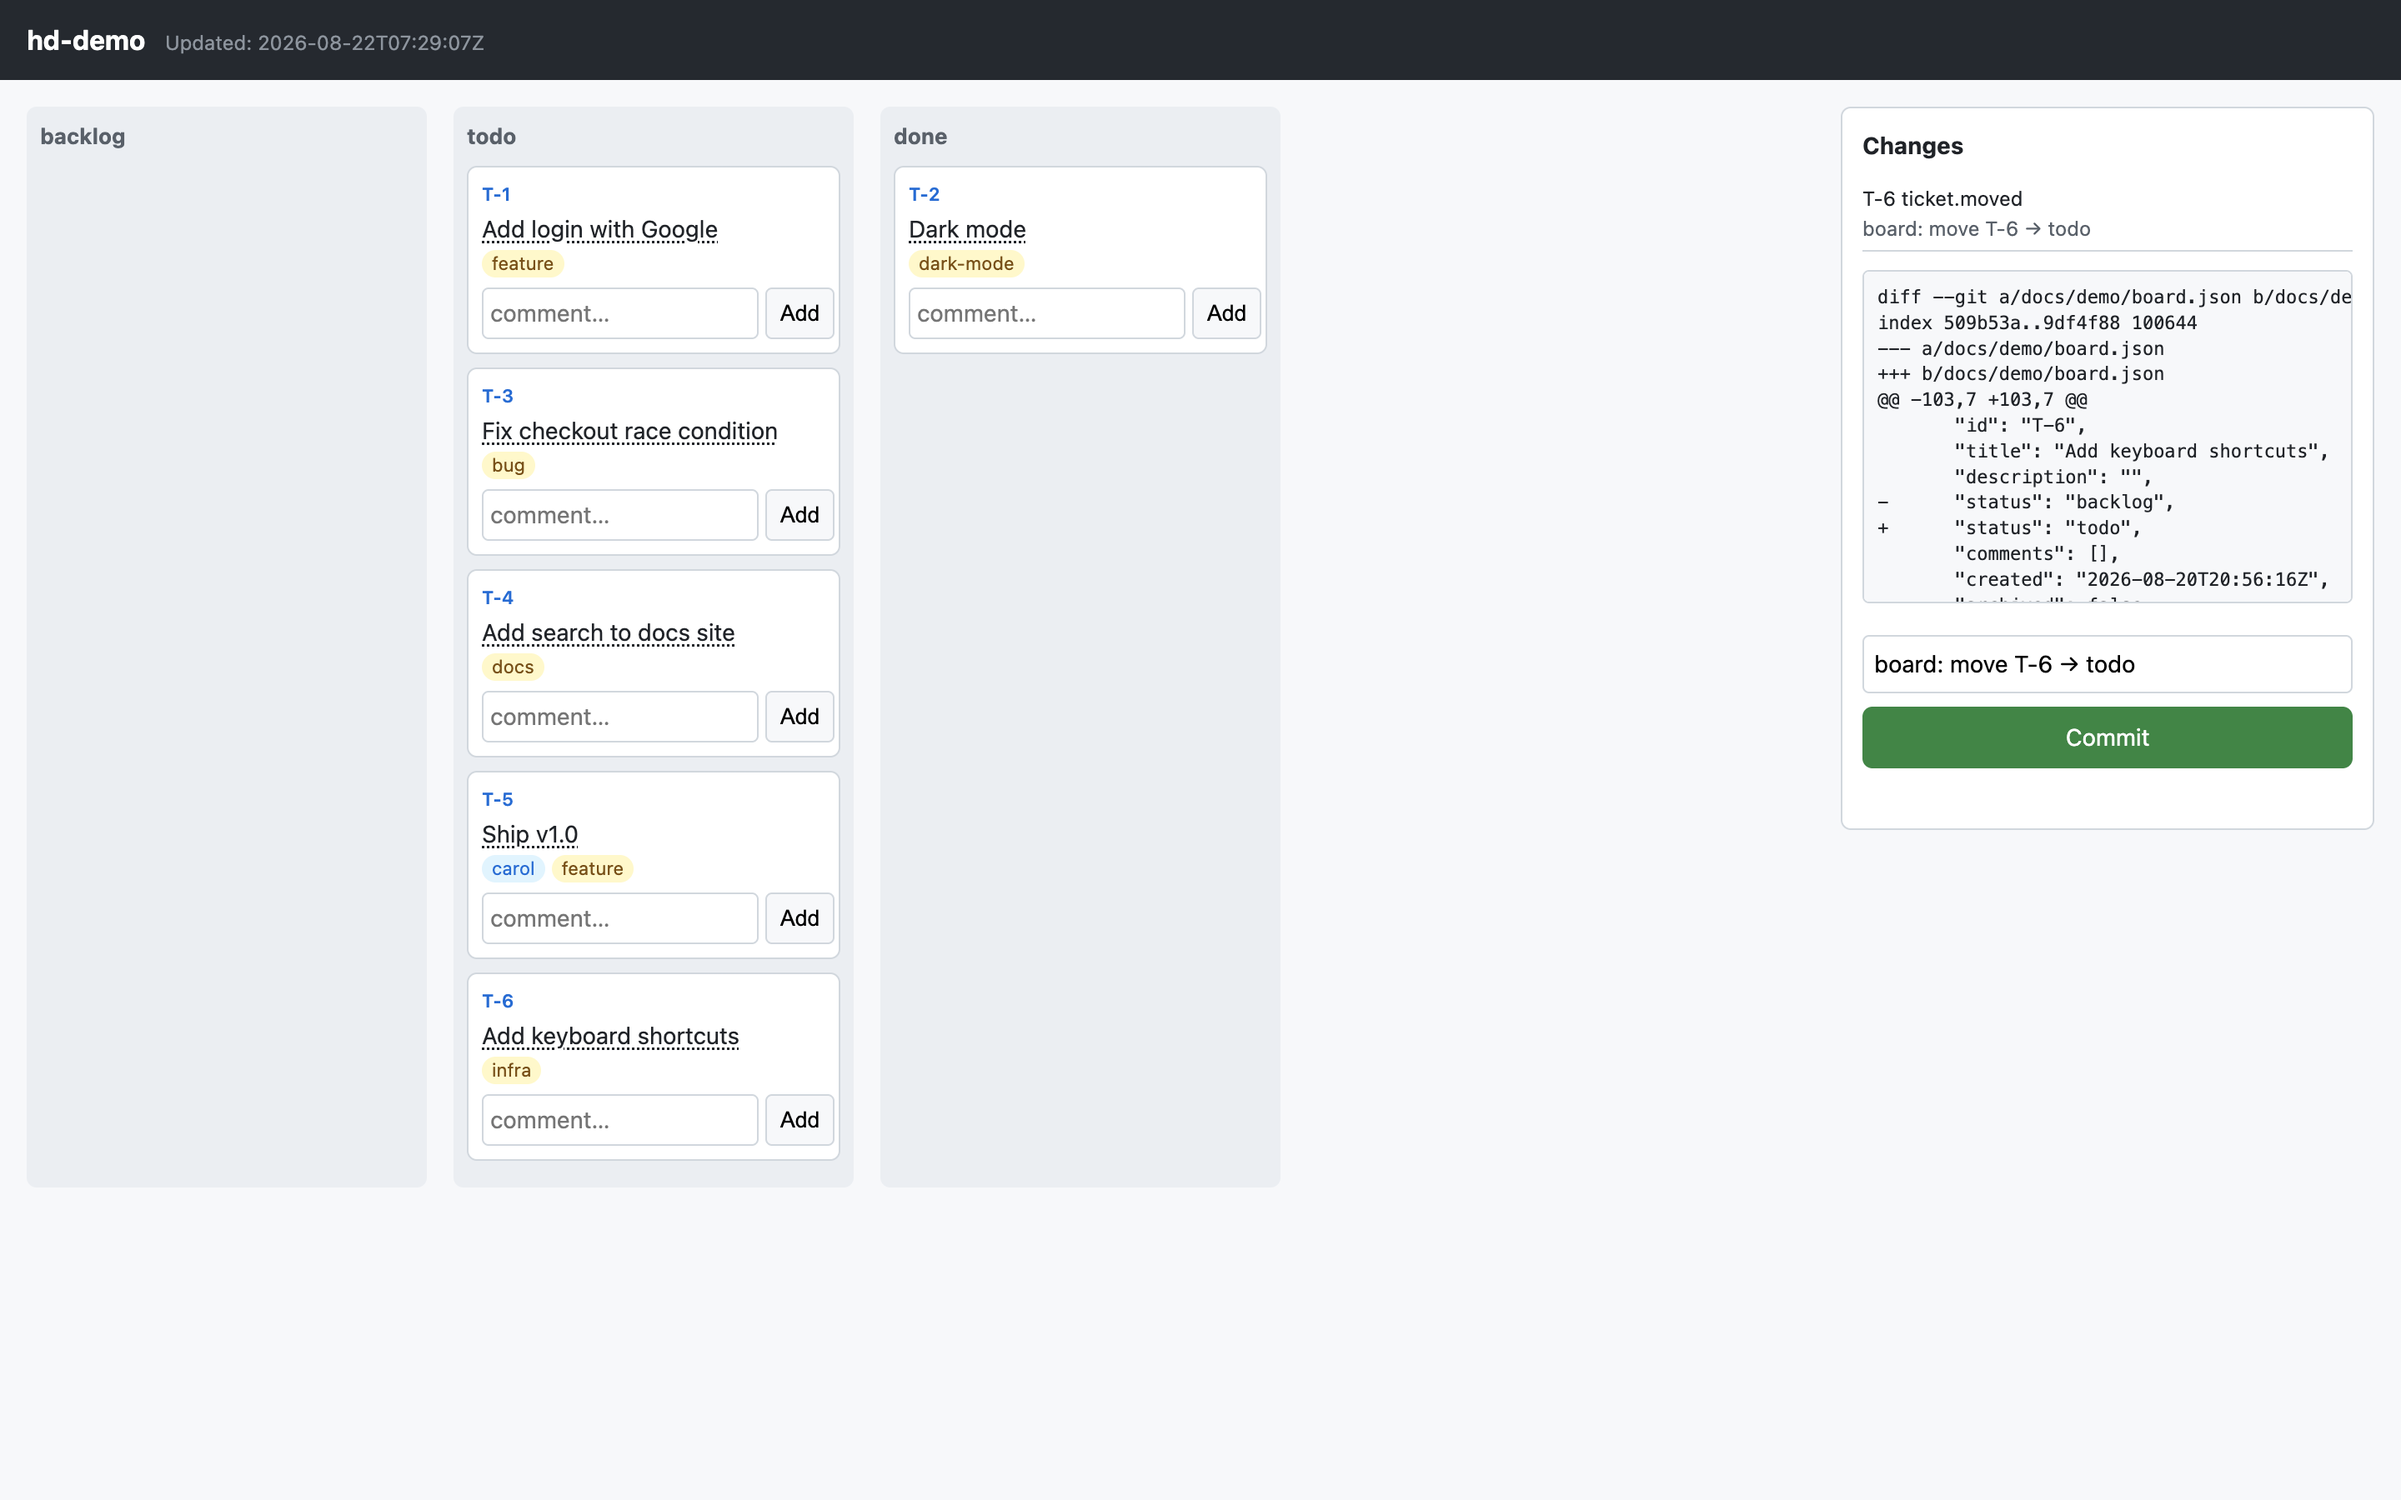
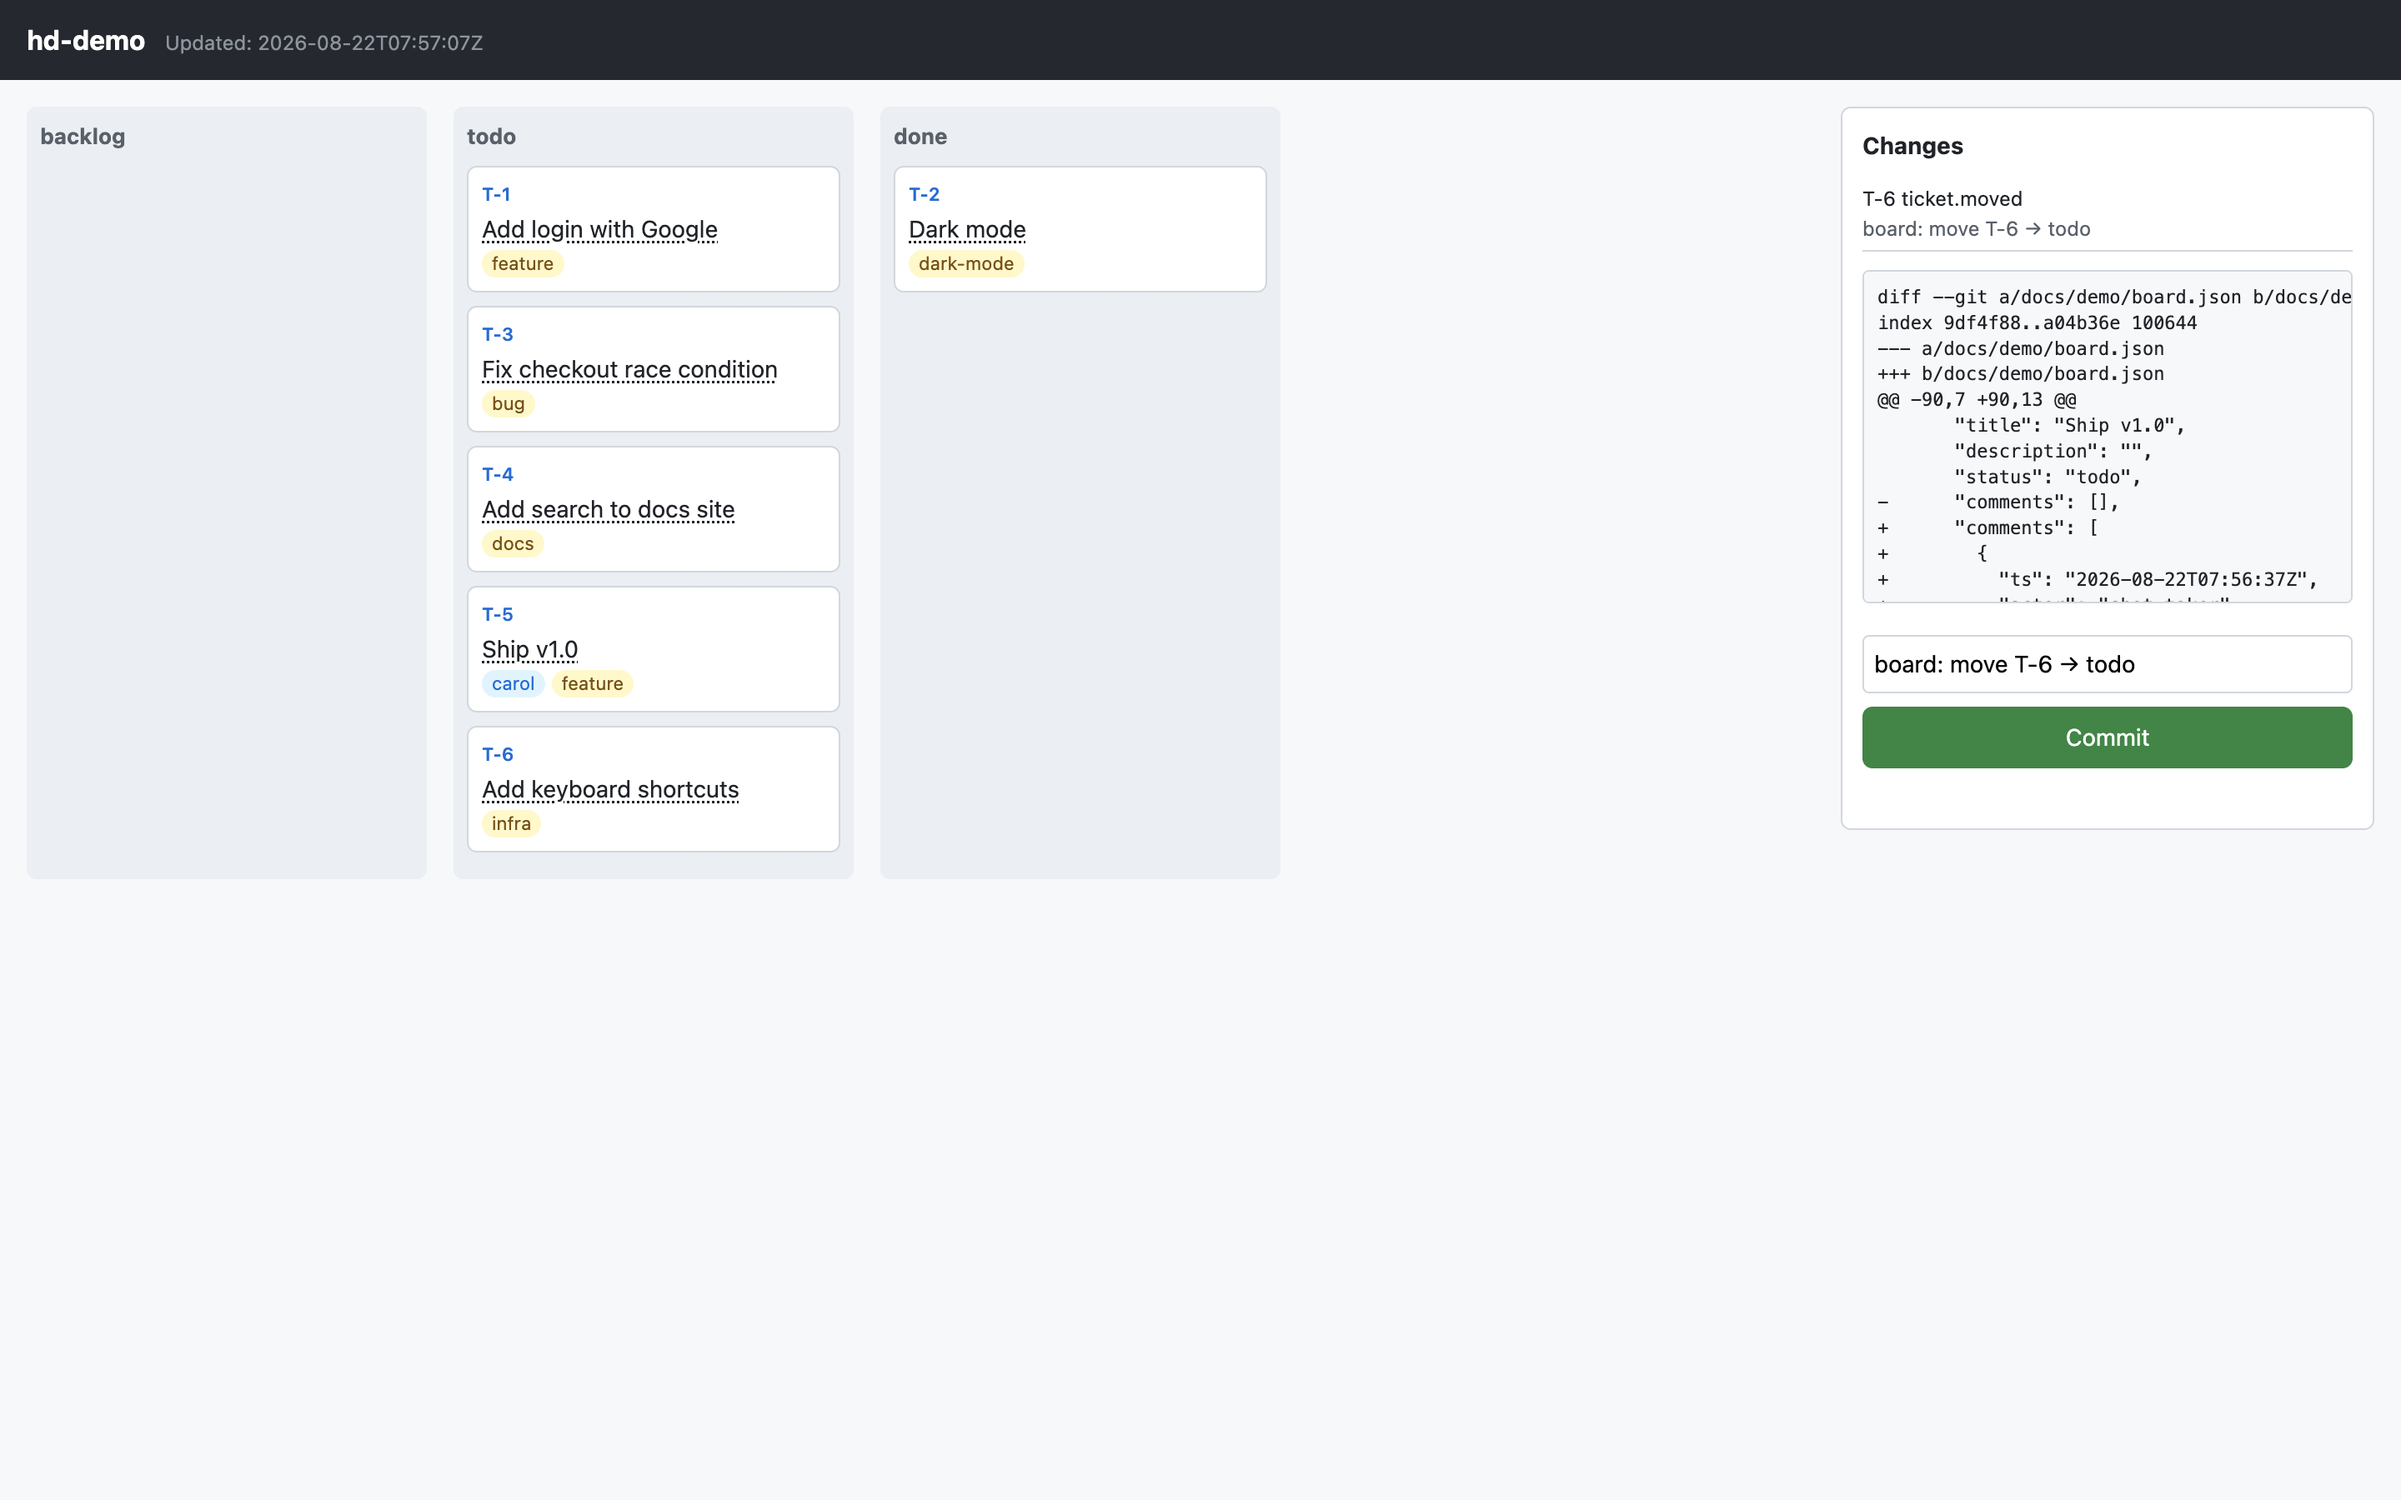
feat: comment form lives on the ticket detail, not the board card (T-17)
T-12 moved comments off the board, but the web page still rendered an
Add-comment form on every collapsed card. The form (and the comments)
now sit inside the card's details block — the web ticket view. Clicking
a title expands it; collapsed cards are id, title, badges only.

The details block is now unconditional: even a card with no
description, links, or comments can be expanded to add the first
comment.

TDD: TestWebCommentFormOnlyOnDetail pins the form inside the details
block (red first). Golden web.html updated. Demo board and README
screenshots refreshed — the demo now shows a comment added through the
ticket detail.

diff --git a/cmd/hexdeck/testdata/golden/web.html b/cmd/hexdeck/testdata/golden/web.html
@@ -84,13 +84,13 @@ function cardHTML(t) {
     '<div class="id">' + esc(t.id) + '</div>' +
     '<div class="title">' + esc(t.title) + '</div>' +
     (badges.length ? '<div class="meta">' + badges.join("") + '</div>' : "") +
-    (t.description || links.length || comments ? '<div class="details" hidden>' +
+    '<div class="details" hidden>' +
       (t.description ? '<div class="desc">' + esc(t.description) + '</div>' : "") +
       (links.length ? '<div class="links">' + links.join("") + '</div>' : "") +
       (comments ? '<div class="comments">' + comments + '</div>' : "") +
-      '</div>' : "") +
-    '<form class="comment-form" data-id="' + esc(t.id) + '">' +
-    '<input placeholder="comment…"><button>Add</button></form>' +
+      '<form class="comment-form" data-id="' + esc(t.id) + '">' +
+      '<input placeholder="comment…"><button>Add</button></form>' +
+      '</div>' +
     '</div>';
 }
 document.addEventListener("click", e => {

diff --git a/cmd/hexdeck/web_test.go b/cmd/hexdeck/web_test.go
@@ -120,6 +120,34 @@ func TestWebPageNoCommentBadge(t *testing.T) {
 	}
 }
 
+// TestWebCommentFormOnlyOnDetail checks the T-12 contract for the web
+// page: the Add-comment form is part of the ticket detail (the expanded
+// card), never the collapsed board card. The form markup must sit
+// inside the .details block — before its closing '</div>' — so a
+// collapsed card is id, title and badges only.
+func TestWebCommentFormOnlyOnDetail(t *testing.T) {
+	page := string(webPage)
+	details := strings.Index(page, `class="details"`)
+	form := strings.Index(page, `class="comment-form"`)
+	// The details block is unconditional and closes with '</div>' + —
+	// the last such close in the card template (the id and title divs
+	// close with '</div>' + earlier; the card itself closes with
+	// '</div>'; and the inner ternaries with '</div>' : "").
+	closeDetail := strings.LastIndex(page, `'</div>' +`)
+	if details == -1 {
+		t.Fatalf("web page lost the ticket detail block")
+	}
+	if form == -1 {
+		t.Fatalf("web page lost the comment form")
+	}
+	if closeDetail == -1 {
+		t.Fatalf("web page lost the details block closing")
+	}
+	if !(details < form && form < closeDetail) {
+		t.Errorf("comment form is outside the details block — collapsed board cards still offer comments")
+	}
+}
+
 // TestWebState checks GET /api/state returns the projection.
 func TestWebState(t *testing.T) {
 	s, _ := newWebTestServer(t)

diff --git a/cmd/hexdeck/web.go b/cmd/hexdeck/web.go
@@ -105,13 +105,13 @@ function cardHTML(t) {
     '<div class="id">' + esc(t.id) + '</div>' +
     '<div class="title">' + esc(t.title) + '</div>' +
     (badges.length ? '<div class="meta">' + badges.join("") + '</div>' : "") +
-    (t.description || links.length || comments ? '<div class="details" hidden>' +
+    '<div class="details" hidden>' +
       (t.description ? '<div class="desc">' + esc(t.description) + '</div>' : "") +
       (links.length ? '<div class="links">' + links.join("") + '</div>' : "") +
       (comments ? '<div class="comments">' + comments + '</div>' : "") +
-      '</div>' : "") +
-    '<form class="comment-form" data-id="' + esc(t.id) + '">' +
-    '<input placeholder="comment…"><button>Add</button></form>' +
+      '<form class="comment-form" data-id="' + esc(t.id) + '">' +
+      '<input placeholder="comment…"><button>Add</button></form>' +
+      '</div>' +
     '</div>';
 }
 document.addEventListener("click", e => {

diff --git a/docs/demo/board.md b/docs/demo/board.md
@@ -1,5 +1,5 @@
 # Board — hd-demo
-Updated: 2026-08-22T07:29:07Z · 0 backlog · 5 todo · 1 done
+Updated: 2026-08-22T07:57:07Z · 0 backlog · 5 todo · 1 done
 
 ## backlog
 
